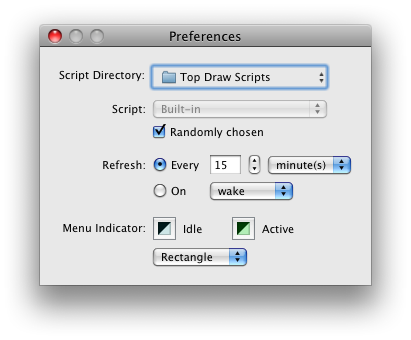
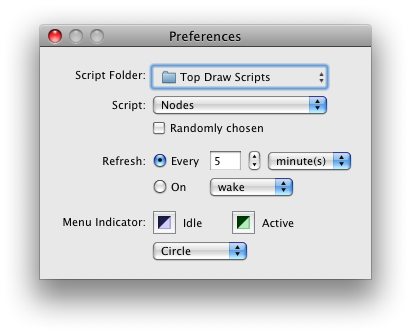
Update documentation.  Change "directory" to "folder".

diff --git a/trunk/Documentation/TopDraw.html b/trunk/Documentation/TopDraw.html
@@ -16,8 +16,8 @@ or icon in the dock.  Instead, there will be a colored shape in the menu bar to 
 current status (idle or rendering).  If you click on the item, it will display
 a menu similar to this menu:
 <p>
-<img src="menu.png"/>
-<p>
+<div>
+<img class="RightEdge" src="menu.png"/>
 
 <table class="Menu" border="1">
 <tr>
@@ -62,6 +62,8 @@ it will launch the editor with the currently active script.</td>
 </tr>
 
 </table>
+</div>
+
 <p>
 
 <h1>Preferences</h1>
@@ -69,22 +71,62 @@ Top Draw has several user configurable preferences to control the scripts to
 render, the rate of refresh, and the appearance of the Status Item.  The
 preferences window will look similar to this:
 <p>
-<img src="preferences.png"/>
+<div>
+<img class="RightEdge" src="preferences.png"/>
+
+<table class="Preferences" border="1">
+<tr>
+<th class="Preferences">Preference</th>
+<th class="Preferences">Description</th>
+</tr>
+
+<tr>
+<td class="PreferenceItem">Script&nbsp;Folder</td>
+<td class="Preferences">The location of the folder on your computer that contains the Top Draw Script (.tds) files 
+to be used by Top Draw when rendering Desktop images.  Only files ending in .tds will be read.  Top Draw will not read files from any folders in that directory.
+</td>
+</tr>
+
+<tr>
+<td class="PreferenceItem">Script</td>
+<td class="Preferences">The chosen script to render.  If you've selected the "Randomly chosen" checkbox, one of the scripts contained in your Script Folder will be chosen at random for each rendering.  Also, the Script menu will be disabled.
+</td>
+</tr>
+
+<tr>
+<td class="PreferenceItem">Refresh</td>
+<td class="Preferences">The desktop can be refreshed at a variety of intervals (seconds, minutes, hours).  Additionally, you
+can have it update when your computer starts up or even every time that you wake it from from sleeping.
+</td>
+</tr>
+
+<tr>
+<td class="PreferenceItem">Menu Indicator</td>
+<td class="Preferences">The appearance of the image drawing in the menubar can be customized.  You may choose the color to be drawn
+when idle or actively rendering a desktop.  You may also choose a pleasing geometric shape: rectangle, square, circle, or triangle.  It's up to you!
+</td>
+</tr>
+
+</table>
+</div>
+
+<h1>Top Draw Scripts</h1>
+Top Draw reads Top Draw Script (.tds) files and renders them into images which are installed on your desktop.  The distribution of Top Draw should contain a folder named "Top Draw Scripts" which contains example script files.
 <p>
+If you're not interested in programming, you can visit the Top Draw project <a href="http://code.google.com/p/topdraw/wiki/Gallery">Wiki Gallery</a> site and download new script files.  You can then copy those files into the Script Folder that you've configured Top Draw to use.  If you open the Preferences window, the new script(s) will be available for your selection.
+<p>
+The scripts use the JavaScript programming language, with enhancements, to provide the instructions to render.  If you'd like to learn more about these, please see the <a href="TopDrawEditor.html">Top Draw Editor</a> documentation.
 
-<h1>Scripts and Programming</h1>
+<h1>Requirements</h1>
+Top Draw requires a Macintosh computer running Mac OS X 10.5 (Leopard) or later.
 
-render, the rate of refresh, and the appearance of the Status Item.  The
-preferences window will look similar to this:
-
-<h1>Miscellaeous</h1>
+<h1>Miscellaneous</h1>
 Top Draw was written by <a href="maito:waylonis@gmail.com">Dan Waylonis</a> in 2008.
 <p>
 The most up-to-date versions can be found at Google's open source repository, as
 the <a href="http://code.google.com/p/topdraw">Top Draw</a> project.
 <p>
-The program is open source 
-
+The program is open source and written in Objective-C using Apple's Xcode IDE.  It uses the JavaScriptCore framework, Quartz, and CoreImage for rendering.
 
 </body>
 </html>

diff --git a/trunk/Documentation/Top Draw.css b/trunk/Documentation/Top Draw.css
@@ -4,32 +4,46 @@ font-family: sans-serif;
 
 h1 {
   border: thin solid DarkBlue;
-  border-left: none;
   border-right: none;
-  background-color: LightGray;
+  border-left: none;
+  background-color: #F0F0F0;
   padding-top: 0.25em;
   padding-bottom: 0.25em;
 }
 
-.MenuItem, .Menu {
+h2 {
+  border: thin solid DarkBlue;
+  border-right: none;
+  border-left: none;
+  border-bottom: none;
+  padding-top: 0.25em;
+  padding-bottom: 0.25em;
+}
+
+.MenuItem, .Menu, .PreferenceItem, .Preferences {
   padding: 1em;
 }
 
-.MenuItem {
+.MenuItem, .PreferenceItem {
   font-weight: bold;
 }
 
-table.Menu {
+table.Menu, table.Preferences {
   border: thin solid black;
   border-collapse: collapse;
   border-spacing: 1em;
-  width: 50em;
 }
 
-th.Menu {
+th.Menu, th.Preferences {
   background-color: LightCyan;
 }
 
+img.LeftEdge {
+	float: left;
+}
 
+img.RightEdge {
+	float: right;
+}
 
 
